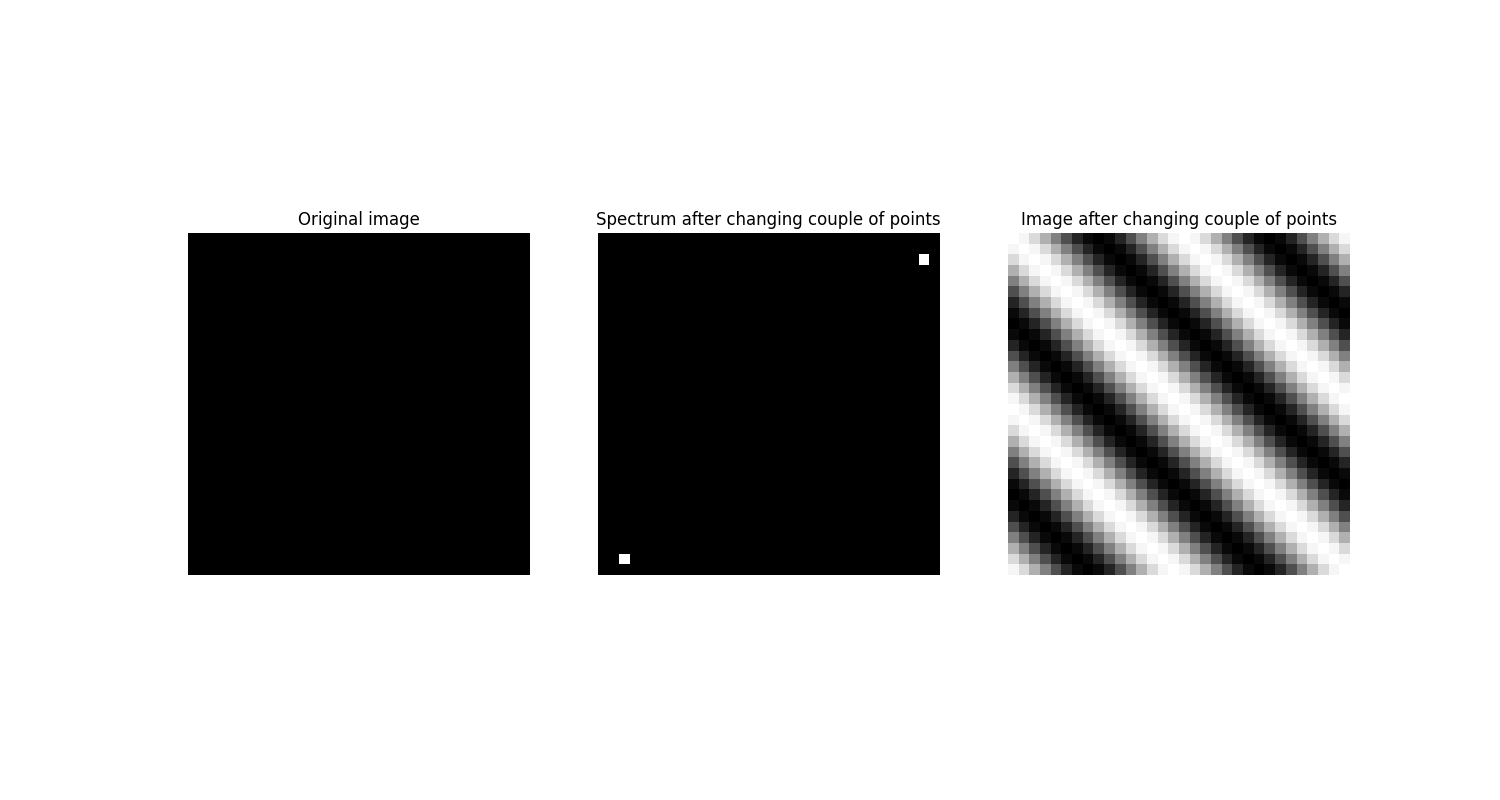
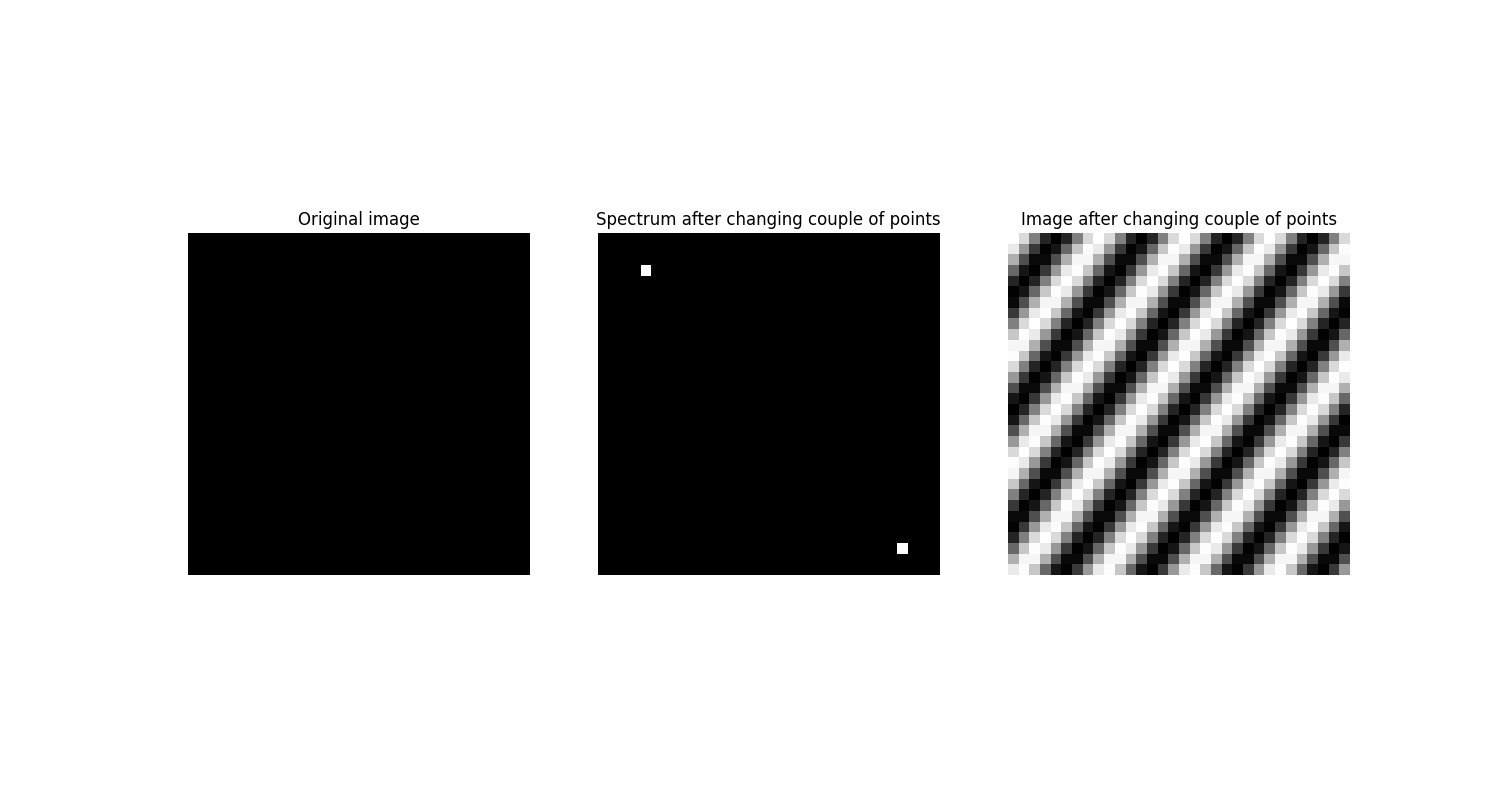
Redistribute files

Changed region(s): [[0.6747, 0.2812, 0.92, 0.7188]]

diff --git a/Source/Research/research_plot.py b/Source/Research/research_plot.py
@@ -1,16 +1,16 @@
-import numpy as np
 import matplotlib.pyplot as plt
-
-from Source.Research.utils import bit_error
-from utils import compression_spectrum, add_qr_to_spectrum, extract_qr_from_image
+from Source.Research.utils import *
 
 
-def couple_of_points(image: np.ndarray):
+def couple_of_points(image: np.ndarray, x: int, y: int):
     """
     Showing analyse what was happened when changed 1 couple of points in spectrum
     :param image: image in form np.ndarray
+    :param x: position x for adding QR
+    :param y: position y for adding QR
     :return: None
     """
+    print("Research about changing 1 couple of point")
     plt.figure(figsize=(15, 8))
     N = image.shape[0]
 
@@ -21,17 +21,20 @@ def couple_of_points(image: np.ndarray):
 
     plt.subplot(1, 3, 2)
     spectrum = np.fft.fft2(image)
-    spectrum[2][N-2] = 1
-    spectrum[N-2][2] = 1
+
+    spectrum[x][y] = 1
+    spectrum[(N-x) % N][(N -y) % N] = 1
+
     spectrum_compression = compression_spectrum(spectrum)
     plt.imshow(spectrum_compression, cmap="gray")
     plt.axis('off')
     plt.title("Spectrum after changing couple of points")
 
     plt.subplot(1, 3, 3)
-    print("-------Data image after changing a couple of point-------")
-    print(np.fft.ifft2(spectrum))
-    image_with_watermark = np.real(np.fft.ifft2(spectrum))
+
+    image_after_research = np.fft.ifft2(spectrum)
+    print(f"Number of wrong pixel: {check_error_data(image_after_research)}")
+    image_with_watermark = np.real(image_after_research)
     plt.imshow(image_with_watermark, cmap="gray")
     plt.axis('off')
     plt.title("Image after changing couple of points")
@@ -39,12 +42,15 @@ def couple_of_points(image: np.ndarray):
     plt.show()
 
 
-def many_couple_of_points(image: np.ndarray):
+def many_couple_of_points(image: np.ndarray, x: np.ndarray, y: np.ndarray):
     """
     Showing analyse what has happened when changed a little couple of points in spectrum
+    :param x: list position x for adding QR
+    :param y: list position y for adding QR
     :param image: image in form np.ndarray
     :return: None
     """
+    print("Research about changing many couples of point")
     plt.figure(figsize=(15, 8))
     N = image.shape[0]
 
@@ -55,12 +61,10 @@ def many_couple_of_points(image: np.ndarray):
 
     plt.subplot(1, 3, 2)
     spectrum = np.fft.fft2(image)
-    m = [2, 4, 14]
-    n = [2, 0, 2]
 
-    for i in range(3):
-        spectrum[m[i], n[i]] = 1
-        spectrum[(N-m[i]) % N, (N-n[i]) % N] = 1
+    for i in range(x.shape[0]):
+        spectrum[x[i], y[i]] = 1
+        spectrum[(N-x[i]) % N, (N-y[i]) % N] = 1
 
     spectrum_compression = compression_spectrum(spectrum)
     plt.imshow(spectrum_compression, cmap="gray")
@@ -68,9 +72,9 @@ def many_couple_of_points(image: np.ndarray):
     plt.title("Spectrum after changing couple of points")
 
     plt.subplot(1, 3, 3)
-    print("-------Data image after changing a few couples of point-------")
-    print(np.fft.ifft2(spectrum))
-    image_with_watermark = np.real(np.fft.ifft2(spectrum))
+    image_after_research = np.fft.ifft2(spectrum)
+    print(f"Number of wrong pixel: {check_error_data(image_after_research)}")
+    image_with_watermark = np.real(image_after_research)
     plt.imshow(image_with_watermark, cmap="gray")
     plt.axis('off')
     plt.title("Image after changing couple of points")
@@ -78,38 +82,44 @@ def many_couple_of_points(image: np.ndarray):
     plt.show()
 
 
-def phase(image: np.ndarray):
+def phase_research(image: np.ndarray, x: np.ndarray, y: np.ndarray, phase: float = np.pi):
     """
     Showing analyse what was happened when add phase e^(i*phi)
     :param image: image in form np.ndarray
+    :param x: list position x for adding QR
+    :param y: list position y for adding QR
+    :param phase: phase using in adding (e^i*phi)
     :return: None
     """
+    print("Research about changing phase many couple of point")
     plt.figure(figsize=(15, 8))
     N = image.shape[0]
 
     plt.subplot(1, 3, 1)
-    plt.imshow(blackImage, cmap="gray")
+    plt.imshow(image, cmap="gray")
     plt.axis('off')
     plt.title("Original image")
 
     plt.subplot(1, 3, 2)
-    spectrum = np.fft.fft2(blackImage)
-    spectrum[2, 2] = np.exp(1j * np.pi)
-    spectrum[N-2, N-2] = np.exp(-1j * np.pi)
-    spectrum[2, 14] = np.exp(1j * np.pi)
-    spectrum[N-2, N-14] = np.exp(-1j * np.pi)
-    spectrum[3, 6] = np.exp(1j * np.pi)
-    spectrum[N-3, N-6] = np.exp(-1j * np.pi)
+    spectrum = np.fft.fft2(image)
+
+    e_pos = np.exp(1j * phase)
+    e_neg = np.exp(-1j * phase)
+
+    for i in range(x.shape[0]):
+        spectrum[x[i], y[i]] += e_pos
+        spectrum[(N - x[i]) % N, (N - y[i]) % N] = e_neg
+
     spectrum_compression = compression_spectrum(spectrum)
     plt.imshow(spectrum_compression, cmap="gray")
     plt.axis('off')
     plt.title("Spectrum after changing phase")
 
     plt.subplot(1, 3, 3)
-    print("-------Data image after changing phase-------")
-    print(np.fft.ifft2(spectrum))
-    image = np.real(np.fft.ifft2(spectrum))
-    plt.imshow(image, cmap="gray")
+    image_after_research = np.fft.ifft2(spectrum)
+    print(f"Number of wrong pixel: {check_error_data(image_after_research)}")
+    image_with_watermark = np.real(image_after_research)
+    plt.imshow(image_with_watermark, cmap="gray")
     plt.axis('off')
     plt.title("Image after changing phase")
 
@@ -118,7 +128,7 @@ def phase(image: np.ndarray):
 
 def high_frequency():
     """
-    For watching frenquency
+    For watching frequency
     :return: None
     """
     image_test = plt.imread("C://Users//Hoang//OneDrive//Desktop//Study//copyright_protection//Image//goldhilf.tif")
@@ -139,13 +149,14 @@ def high_frequency():
     plt.show()
 
 
-def research_qr(image: np.ndarray, L, x, y):
+def research_qr(image: np.ndarray, L: int, x: int, y: int):
     """
     Show analyse when adding QR code in spectrum
     :param image: image in form np.ndarray
     :param L: Shape of QR  L x L
     :return: None
     """
+    print("Research about marking QR")
     rng = np.random.default_rng(0)
     qr = (rng.random((L, L)) > 0.5).astype(np.uint8)
 
@@ -175,7 +186,9 @@ def research_qr(image: np.ndarray, L, x, y):
     plt.axis("off")
 
     plt.subplot(2, 4,5)
-    image_with_watermark = np.real(np.fft.ifft2(spectrum_embed_qr))
+    image_after_research = np.fft.ifft2(spectrum_embed_qr)
+    print(f"Number of wrong pixel: {check_error_data(image_after_research)}")
+    image_with_watermark = np.real(image_after_research)
     plt.imshow(image_with_watermark, cmap="gray")
     plt.title("Image after adding QR code")
     plt.axis("off")
@@ -200,14 +213,3 @@ def research_qr(image: np.ndarray, L, x, y):
     plt.show()
 
 
-
-if __name__ == "__main__":
-    N = 32
-    blackImage = np.zeros((N, N))
-    image = plt.imread("C://Users//Hoang//OneDrive//Desktop//Study//copyright_protection//Image//goldhilf.tif")
-    # couple_of_points(blackImage)
-    # many_couple_of_points(blackImage)
-    # phase(blackImage)
-    # high_frequency()
-    #research_qr(blackImage, 9, 3, 4)
-    research_qr(image, 41, 40, 50)

diff --git a/Source/Research/utils.py b/Source/Research/utils.py
@@ -1,6 +1,7 @@
 import numpy as np
-import matplotlib.pyplot as plt
-epsilon = 10**-5
+
+epsilon = 1e-8
+
 
 def compression_spectrum(spectrum: np.ndarray):
     """
@@ -8,34 +9,51 @@ def compression_spectrum(spectrum: np.ndarray):
     :param spectrum: spectrum in from np.ndarray
     :return: data of spectrum after optimizing
     """
-    #spectrum_shift = np.fft.fftshift(spectrum)
     return np.log(1 + np.abs(spectrum))
 
 
-def add_qr_to_spectrum(qr: np.ndarray, spectrum: np.ndarray, x: int, y: int ):
+def check_error_data(image_research: np.ndarray):
+    image_imag = np.imag(image_research)
+    return image_imag[np.abs(image_imag) > epsilon].size
+
+
+def add_qr_to_spectrum(qr: np.ndarray, spectrum: np.ndarray, x: int, y: int, phase: float = np.pi/5):
     """
     Add QR into spectrum by position (x, y), but QR will be divided to 2 part (left-right)
     :param qr: QR code in from np.ndarray
     :param spectrum: spectrum in from np.ndarray
+    :param phase: phi in e^i*phi
     :param x: position X in spectrum for adding
     :param y: position Y in spectrum for adding
     :return:
     """
     N = spectrum.shape[0]
     L = qr.shape[0]
+    L_mid = L//2
 
     if x > N//2 - L or y > N//2 - L:
         assert "fix x, y please!"
 
+    e_pos = np.exp(1j * phase)
+    e_neg = np.exp(-1j * phase)
+
+    rows = slice(x, x+L)
+    left_columns = slice(y, y + L_mid+1)
+    spectrum[rows, left_columns] += qr[:, :L_mid+1] * e_pos
+
+
+    right_columns = slice(N - L_mid, N)
+    spectrum[rows, right_columns] += qr[:, L_mid+1:] * e_pos
+
     for i in range(L):
         for j in range(L//2):
-            spectrum[i+x][j+y] += qr[i][j] * np.exp(1j * np.pi/5)
-            spectrum[N-i-x][N-j-y] += qr[i][j] * np.exp(-1j * np.pi/5)
-            spectrum[i+x][-1- j] += qr[i][-1-j] * np.exp(1j * np.pi/5)
-            spectrum[N - i - x][j+1] += qr[i][-1-j] * np.exp(-1j * np.pi/5)
+            spectrum[i+x][j+y] += qr[i][j] * e_pos
+            spectrum[N-i-x][N-j-y] += qr[i][j] * e_neg
+            spectrum[i+x][-1- j] += qr[i][-1-j] * e_pos
+            spectrum[N - i - x][j+1] += qr[i][-1-j] * e_neg
 
-        spectrum[i+x][L//2 + y] += qr[i][L//2] * np.exp(1j * np.pi/5)
-        spectrum[N - i - x][N - L//2 - y] += qr[i][L//2] * np.exp(-1j * np.pi/5)
+        spectrum[i+x][L//2 + y] += qr[i][L//2] * e_pos
+        spectrum[N - i - x][N - L//2 - y] += qr[i][L//2] * e_neg
     return spectrum
 
 

diff --git a/Source/Research/execute.py b/Source/Research/execute.py
@@ -1,0 +1,17 @@
+from Source.Research.research_plot import *
+image_path = "C://Users//Hoang//OneDrive//Desktop//Study//copyright_protection//Image//goldhilf.tif"
+
+if __name__ == "__main__":
+    N = 32
+    blackImage = np.zeros((N, N))
+    image = plt.imread(image_path)
+    couple_of_points(blackImage, 3, 4)
+
+    x = np.array([2, 4, 14])
+    y = np.array([2, 0, 2])
+    #many_couple_of_points(blackImage, x, y)
+    #phase_research(blackImage, x, y)
+
+    #high_frequency()
+    #research_qr(blackImage, 9, 3, 4)
+    #research_qr(image, 41, 40, 50)
